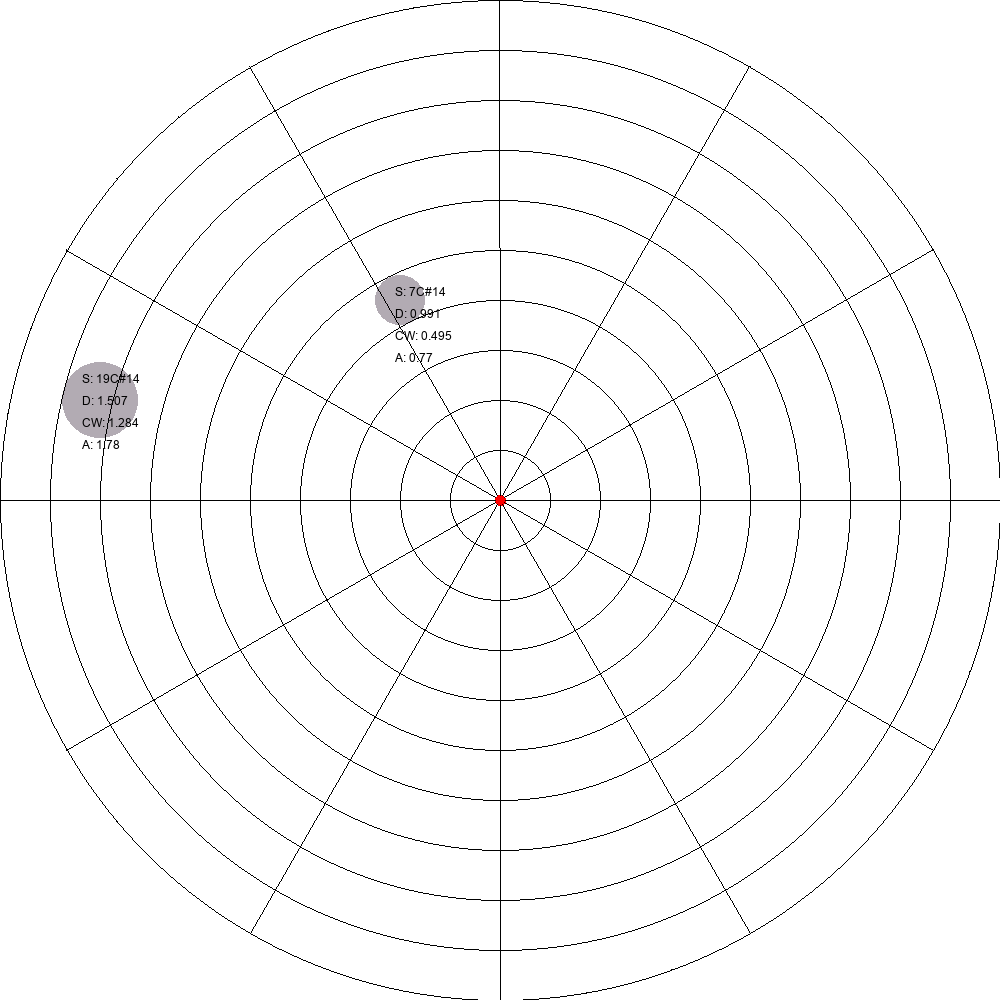
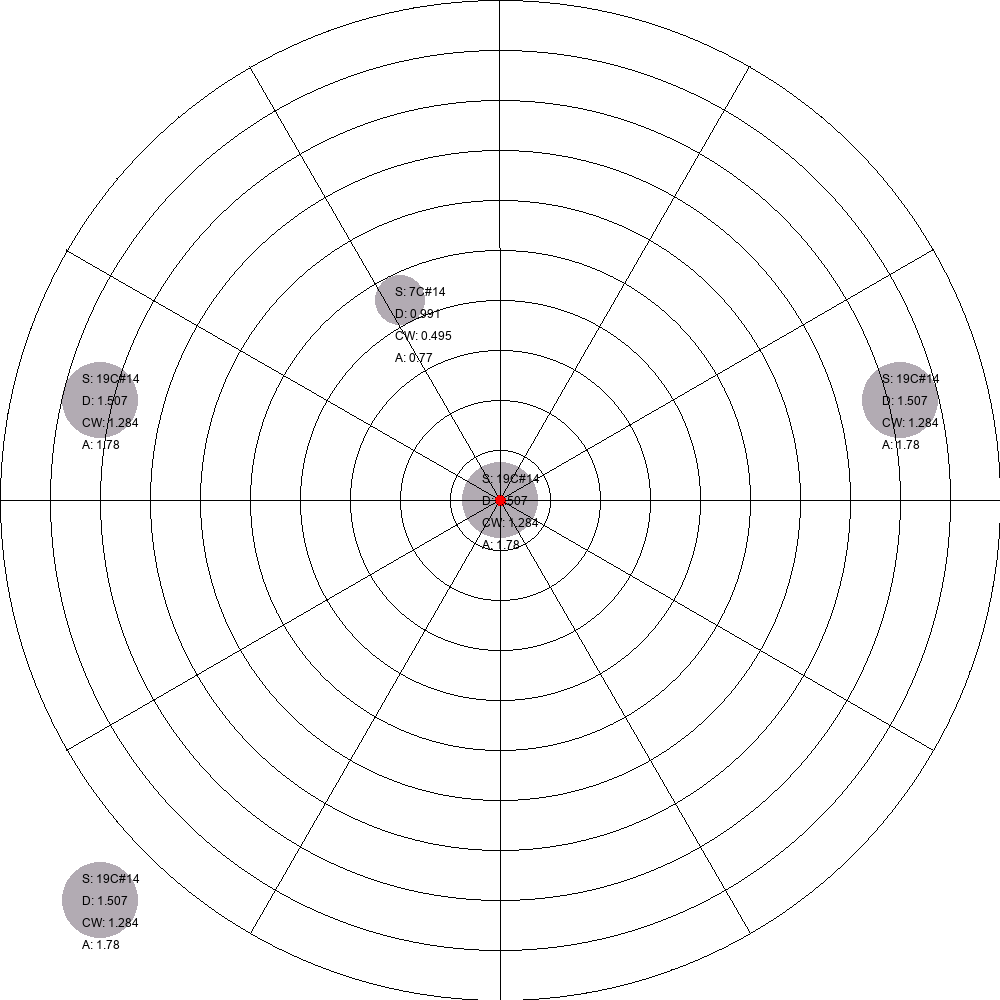
multiple cables one image

Changed region(s): [[0.837, 0.341, 0.961, 0.465], [0.062, 0.837, 0.155, 0.961], [0.465, 0.465, 0.558, 0.558]]

diff --git a/visualizer.py b/visualizer.py
@@ -1,8 +1,6 @@
 from PIL import Image, ImageDraw, ImageFont
-import math
 from file_handler import *
 from cable_classes import *
-
 
 def draw_cable(draw, x, y, cable, cable_info):
     scaling_factor = 50  # Increase the scaling factor
@@ -142,9 +140,12 @@ def generate_cable_image(cable_list):
 
 cable_list.append((400, 300, Cable('1.160', '500+00', '600+00', '7C#14', 'E')))
 cable_list.append((100, 400, Cable('1.161', '500+00', '600+00', '19C#14', 'E')))
+cable_list.append((900, 400, Cable('1.161', '500+00', '600+00', '19C#14', 'E')))
+cable_list.append((100, 900, Cable('1.161', '500+00', '600+00', '19C#14', 'E')))
+cable_list.append((500, 500, Cable('1.161', '500+00', '600+00', '19C#14', 'E')))
 
 # Get the cable sizes
 get_cable_sizes()
 
-# Generate the image with both cables
+# Generate the image with all cables
 generate_cable_image(cable_list)
